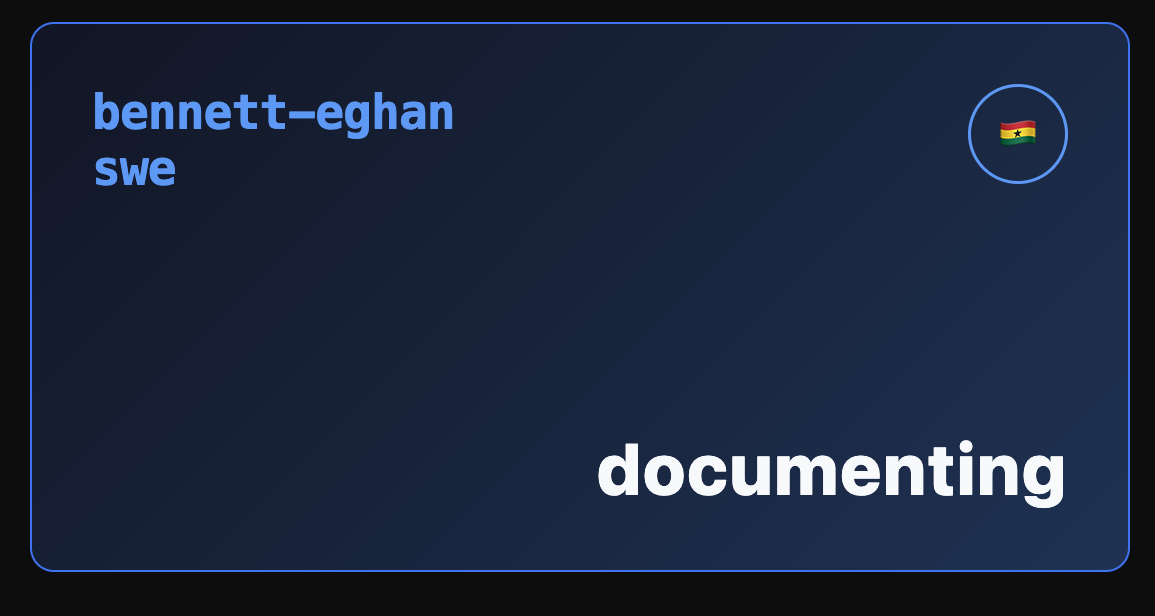
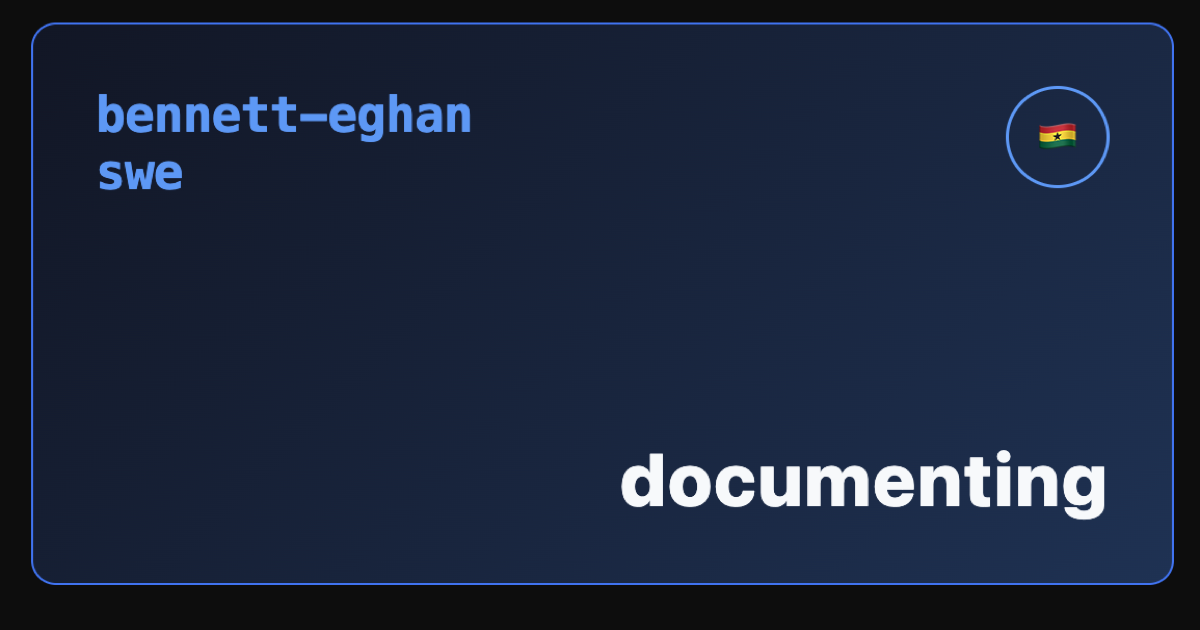
open graph

diff --git a/blog.html b/blog.html
@@ -5,11 +5,11 @@
     <meta charset="UTF-8" />
     <link rel="icon" type="image/svg+xml" href="/b.svg" />
     <meta name="viewport" content="width=device-width, initial-scale=1.0" />
-    <title>blog | abena</title>
+    <title>blog | abena bennett-eghan - thoughts on tech and problem-solving</title>
     
     <!-- Open Graph -->
-    <meta property="og:title" content="blog | abena" />
-    <meta property="og:description" content="thoughts on tech, life, and everything in between" />
+    <meta property="og:title" content="blog | abena bennett-eghan - thoughts on tech and problem-solving" />
+    <meta property="og:description" content="read my blog posts on algorithms, data structures, recursion, open source contributions, and navigating the tech space. practical insights from a software engineer." />
     <meta property="og:image" content="https://www.bennett-eghan.com/og-blog.png" />
     <meta property="og:type" content="website" />
     <meta property="og:url" content="https://www.bennett-eghan.com/blog" />
@@ -17,8 +17,8 @@
     
     <!-- Twitter -->
     <meta name="twitter:card" content="summary_large_image" />
-    <meta name="twitter:title" content="blog | abena" />
-    <meta name="twitter:description" content="thoughts on tech, life, and everything in between" />
+    <meta name="twitter:title" content="blog | abena bennett-eghan - thoughts on tech and problem-solving" />
+    <meta name="twitter:description" content="read my blog posts on algorithms, data structures, recursion, open source contributions, and navigating the tech space. practical insights from a software engineer." />
     <meta name="twitter:image" content="https://www.bennett-eghan.com/og-blog.png" />
     
     <style>

diff --git a/projects.html b/projects.html
@@ -5,11 +5,11 @@
     <meta charset="UTF-8" />
     <link rel="icon" type="image/svg+xml" href="/b.svg" />
     <meta name="viewport" content="width=device-width, initial-scale=1.0" />
-    <title>projects | abena</title>
+    <title>projects | abena bennett-eghan - things i have built</title>
     
     <!-- Open Graph -->
-    <meta property="og:title" content="projects | abena" />
-    <meta property="og:description" content="things i have built" />
+    <meta property="og:title" content="projects | abena bennett-eghan - things i have built" />
+    <meta property="og:description" content="explore my software projects, from web applications to tools and experiments. each project represents a learning journey and a passion for building useful things." />
     <meta property="og:image" content="https://www.bennett-eghan.com/og-projects.png" />
     <meta property="og:type" content="website" />
     <meta property="og:url" content="https://www.bennett-eghan.com/projects" />
@@ -17,8 +17,8 @@
     
     <!-- Twitter -->
     <meta name="twitter:card" content="summary_large_image" />
-    <meta name="twitter:title" content="projects | abena" />
-    <meta name="twitter:description" content="things i have built" />
+    <meta name="twitter:title" content="projects | abena bennett-eghan - things i have built" />
+    <meta name="twitter:description" content="explore my software projects, from web applications to tools and experiments. each project represents a learning journey and a passion for building useful things." />
     <meta name="twitter:image" content="https://www.bennett-eghan.com/og-projects.png" />
     
     <style>

diff --git a/vite.config.ts b/vite.config.ts
@@ -40,18 +40,18 @@ export default defineConfig({
     // Open Graph meta tags
     ogPlugin({
       basic: {
-        title: "abena | swe",
+        title: "abena bennett-eghan | software engineer",
         type: "website",
         url: "https://www.bennett-eghan.com",
-        description: "explore abena's projects, blog, and insights.",
+        description: "explore my projects, blog posts on algorithms, problem-solving, and navigating the tech space. thoughts on dsa, open source, and engineering things.",
         siteName: "bennett-eghan.com",
         image: "https://www.bennett-eghan.com/og-main.png",
       },
       twitter: {
         card: "summary_large_image",
-        site: "@abena07",
-        title: "abena | swe",
-        description: "explore abena's projects, blog, and insights.",
+        site: "@1bp7l_",
+        title: "abena bennett-eghan | software engineer",
+        description: "explore my projects, blog posts on algorithms, problem-solving, and navigating the tech space. thoughts on dsa, open source, and engineering things.",
         image: "https://www.bennett-eghan.com/og-main.png",
       },
     }),

diff --git a/public/og-template.html b/public/og-template.html
@@ -11,6 +11,7 @@
     body {
       width: 1200px;
       height: 630px;
+      margin: 0;
       display: flex;
       align-items: center;
       justify-content: center;
